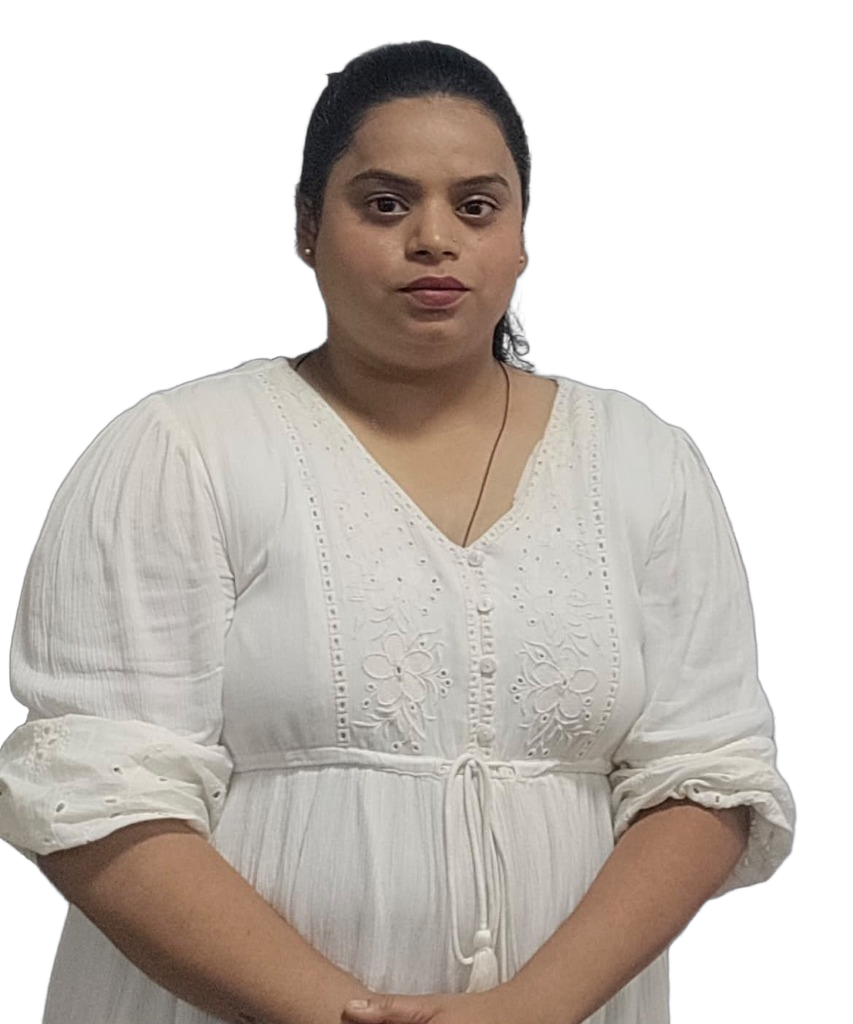
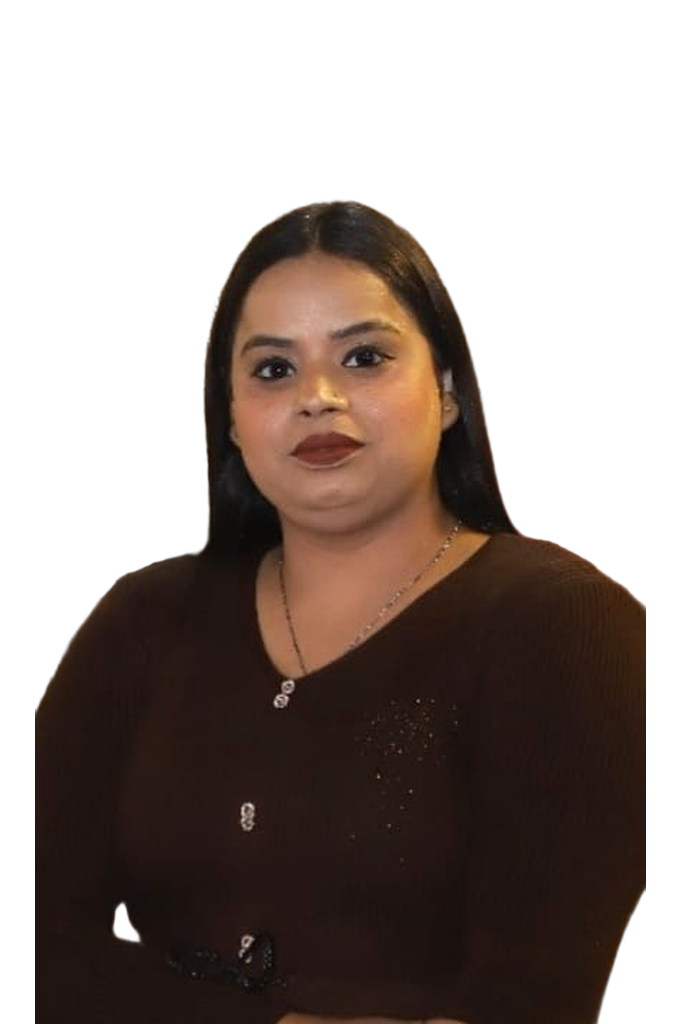
Update trainer title, co-founder cutout image and soften top bar colors

diff --git a/css/style.css b/css/style.css
@@ -1615,37 +1615,42 @@ img {
 }
 
 .top-regd-pill {
-    background: rgba(14, 122, 61, 0.22);
-    color: #4ADE80 !important;
-    border: 1px solid rgba(74, 222, 128, 0.35);
+    background: rgba(14, 122, 61, 0.16);
+    color: #86EFAC !important;
+    border: 1px solid rgba(134, 239, 172, 0.28);
     border-radius: 50px;
-    font-weight: 700;
+    font-weight: 600;
     font-size: 0.76rem;
-    padding: 4px 10px;
-    letter-spacing: 0.3px;
+    padding: 4px 11px;
+    letter-spacing: 0.25px;
     display: inline-flex;
     align-items: center;
 }
 
 .top-instagram-badge {
-    background: linear-gradient(135deg, #833AB4 0%, #FD1D1D 50%, #F59E0B 100%);
+    background: linear-gradient(135deg, rgba(168, 85, 247, 0.25) 0%, rgba(236, 72, 153, 0.28) 50%, rgba(251, 146, 60, 0.24) 100%);
     color: #FFFFFF !important;
+    border: 1px solid rgba(244, 114, 182, 0.38);
     border-radius: 50px;
     padding: 4px 12px;
     font-size: 0.78rem;
-    font-weight: 700;
+    font-weight: 600;
     font-family: var(--font-heading);
     letter-spacing: 0.2px;
     text-decoration: none !important;
     display: inline-flex;
     align-items: center;
-    box-shadow: 0 2px 8px rgba(253, 29, 29, 0.25);
+    backdrop-filter: blur(8px);
+    -webkit-backdrop-filter: blur(8px);
+    box-shadow: 0 2px 8px rgba(236, 72, 153, 0.14);
     transition: all 0.25s ease;
 }
 
 .top-instagram-badge:hover {
-    transform: translateY(-1px) scale(1.02);
-    box-shadow: 0 4px 14px rgba(253, 29, 29, 0.45);
+    background: linear-gradient(135deg, rgba(168, 85, 247, 0.38) 0%, rgba(236, 72, 153, 0.42) 50%, rgba(251, 146, 60, 0.35) 100%);
+    border-color: rgba(244, 114, 182, 0.6);
+    transform: translateY(-1px);
+    box-shadow: 0 4px 14px rgba(236, 72, 153, 0.25);
     color: #FFFFFF !important;
 }
 
@@ -1818,11 +1823,11 @@ img {
 
 /* Mobile Top Utility Bar Elements */
 .top-regd-pill-mobile {
-    background: rgba(14, 122, 61, 0.22);
-    color: #4ADE80 !important;
-    border: 1px solid rgba(74, 222, 128, 0.4);
+    background: rgba(14, 122, 61, 0.16);
+    color: #86EFAC !important;
+    border: 1px solid rgba(134, 239, 172, 0.28);
     border-radius: 50px;
-    font-weight: 700;
+    font-weight: 600;
     font-size: 0.68rem;
     padding: 3px 8px;
     letter-spacing: 0.2px;

diff --git a/index.php b/index.php
@@ -298,7 +298,7 @@ include 'includes/header.php';
                 <div class="col-md-6 col-lg-5" data-aos="fade-up" data-aos-delay="200">
                     <div class="founder-card h-100 rounded-4 overflow-hidden shadow-sm border p-4 text-center d-flex flex-column align-items-center">
                         <div class="founder-photo-wrap mb-3">
-                            <img src="images/cofounder_versha.png" alt="Versha - Co-Founder" class="founder-cutout-img">
+                            <img src="images/cofounder_versha.png?v=2" alt="Versha - Co-Founder" class="founder-cutout-img">
                         </div>
                         <span class="badge bg-danger bg-opacity-10 text-danger px-3 py-1.5 rounded-pill fw-bold mb-2" style="font-size: 0.8rem; letter-spacing: 0.5px;">CO-FOUNDER</span>
                         <h3 class="fw-bold font-heading text-dark mb-1">Versha</h3>
@@ -478,7 +478,7 @@ include 'includes/header.php';
                             <div>
                                 <span class="badge bg-danger bg-opacity-10 text-danger rounded-pill fw-bold px-2 py-0.5 small mb-1" style="font-size: 10px; letter-spacing: 0.5px;">TRAINER &amp; FOUNDER</span>
                                 <h4 class="fw-bold font-heading text-dark mb-0 fs-5">Manisha</h4>
-                                <p class="text-muted small mb-0 fw-semibold">Founder, NSE &amp; Certified POSH / POCSO Trainer</p>
+                                <p class="text-muted small mb-0 fw-semibold">Founder &amp; POSH / POCSO Trainer</p>
                             </div>
                         </div>
 

diff --git a/programs.php b/programs.php
@@ -175,7 +175,7 @@ include 'includes/header.php';
                     <span class="badge bg-danger text-white py-1 px-2.5 rounded-pill mb-2" style="font-size: 11px; font-weight: 700;">INITIATIVE 05</span>
                     <h3 class="fw-bold mb-2 font-heading text-dark">POSH &amp; POCSO Awareness Training Program</h3>
                     <p class="text-muted small mb-3 lh-base">
-                        Conducted by our Founder &amp; Certified Trainer <strong>Manisha</strong>, our specialized sessions bring statutory legal awareness, victim assistance, and institutional safety directly to colleges, universities, schools, and organizations.
+                        Conducted by our Founder &amp; POSH / POCSO Trainer <strong>Manisha</strong>, our specialized sessions bring statutory legal awareness, victim assistance, and institutional safety directly to colleges, universities, schools, and organizations.
                     </p>
                     
                     <div class="p-3 bg-white rounded-3 border-start border-danger border-4 shadow-xs mb-3">

diff --git a/about.php b/about.php
@@ -219,7 +219,7 @@ include 'includes/header.php';
                 <div class="col-md-6 col-lg-5" data-aos="fade-up" data-aos-delay="200">
                     <div class="founder-card h-100 rounded-4 overflow-hidden shadow-sm border p-4 text-center d-flex flex-column align-items-center">
                         <div class="founder-photo-wrap mb-3">
-                            <img src="images/cofounder_versha.png" alt="Versha - Co-Founder" class="founder-cutout-img">
+                            <img src="images/cofounder_versha.png?v=2" alt="Versha - Co-Founder" class="founder-cutout-img">
                         </div>
                         <span class="badge bg-danger bg-opacity-10 text-danger px-3 py-1.5 rounded-pill fw-bold mb-2" style="font-size: 0.8rem; letter-spacing: 0.5px;">CO-FOUNDER</span>
                         <h3 class="fw-bold font-heading text-dark mb-1">Versha</h3>

diff --git a/includes/header.php b/includes/header.php
@@ -122,7 +122,7 @@
     <!-- AOS.js CSS -->
     <link href="https://unpkg.com/aos@2.3.1/dist/aos.css" rel="stylesheet">
     <!-- Custom CSS -->
-    <link rel="stylesheet" href="css/style.css?v=2.5.0">
+    <link rel="stylesheet" href="css/style.css?v=2.6.0">
     <?php if (isset($extraHead)) echo $extraHead; ?>
 </head>
 <body class="<?php echo isset($bodyClass) ? $bodyClass : 'bg-canvas'; ?>">
